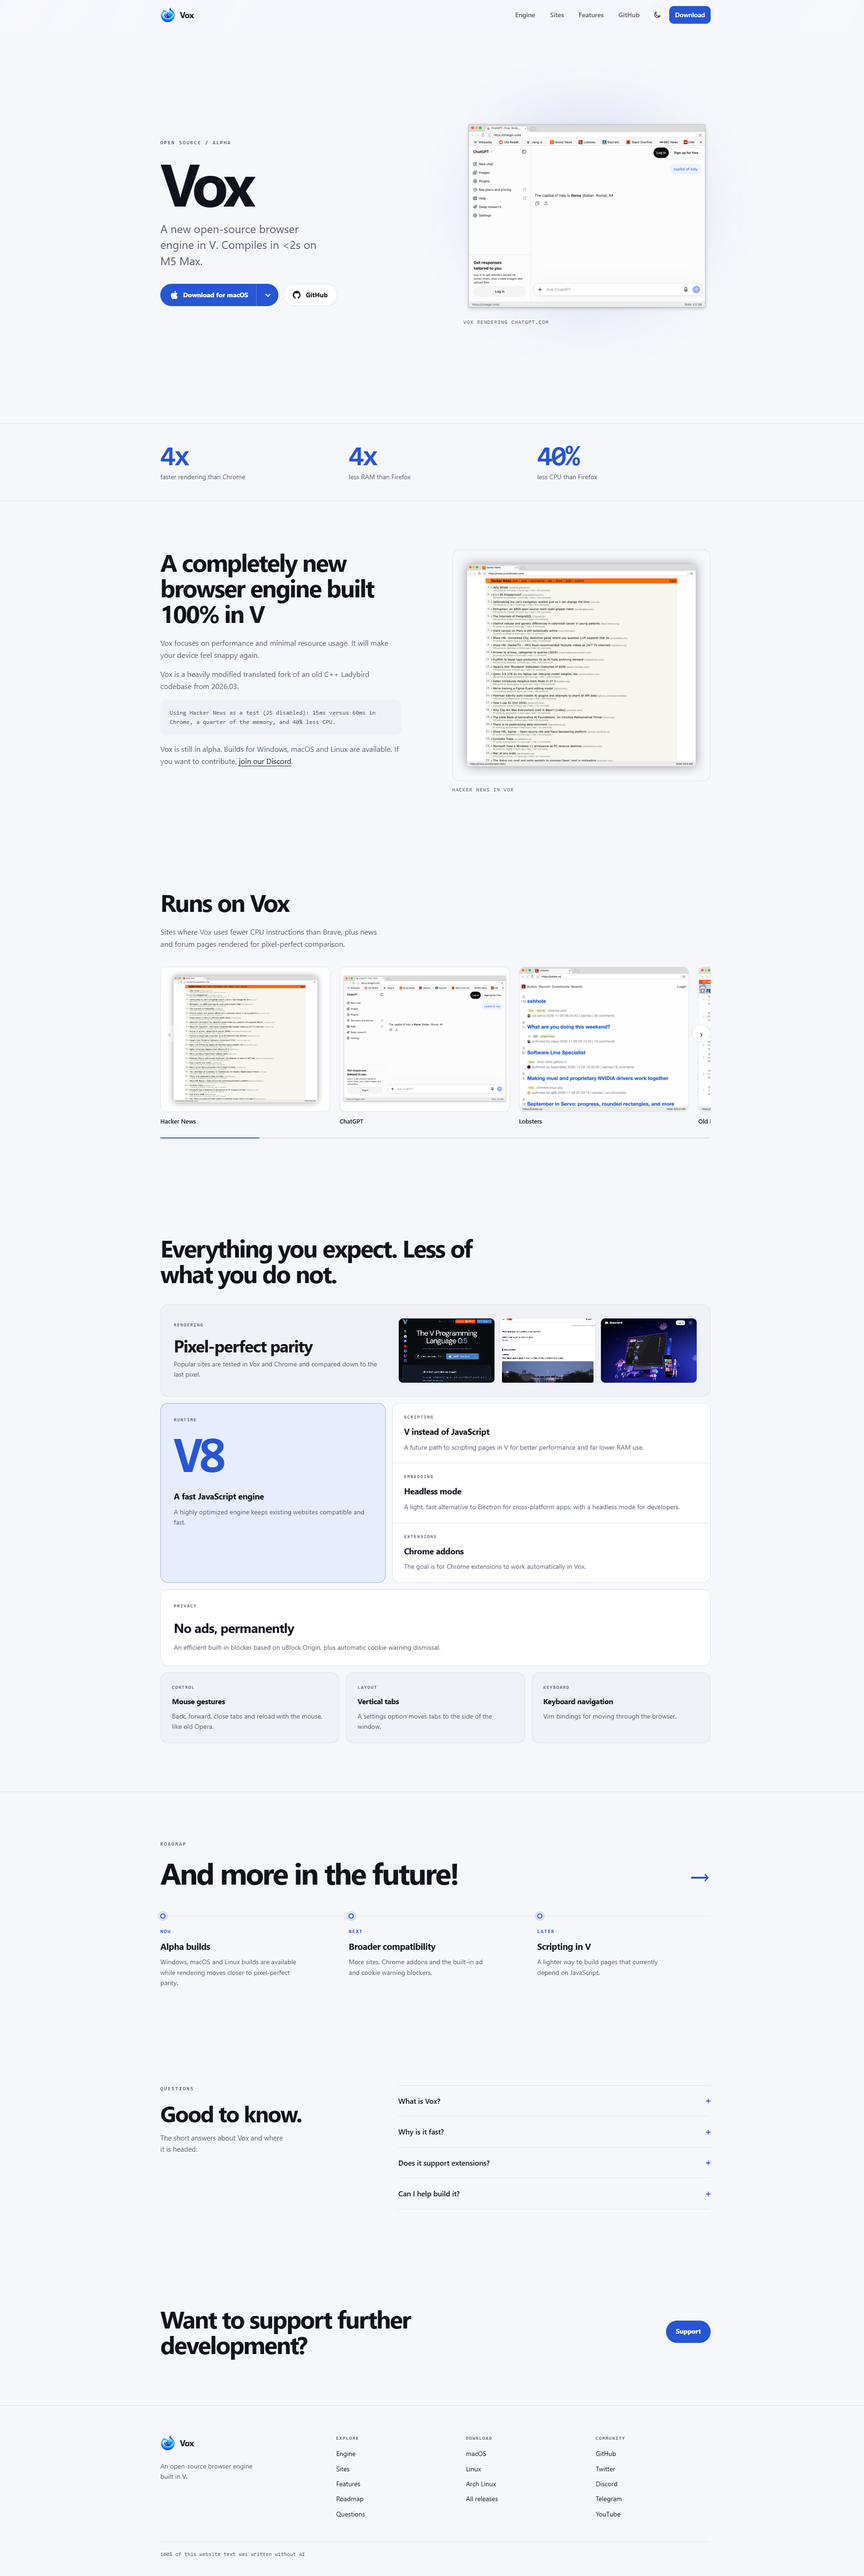
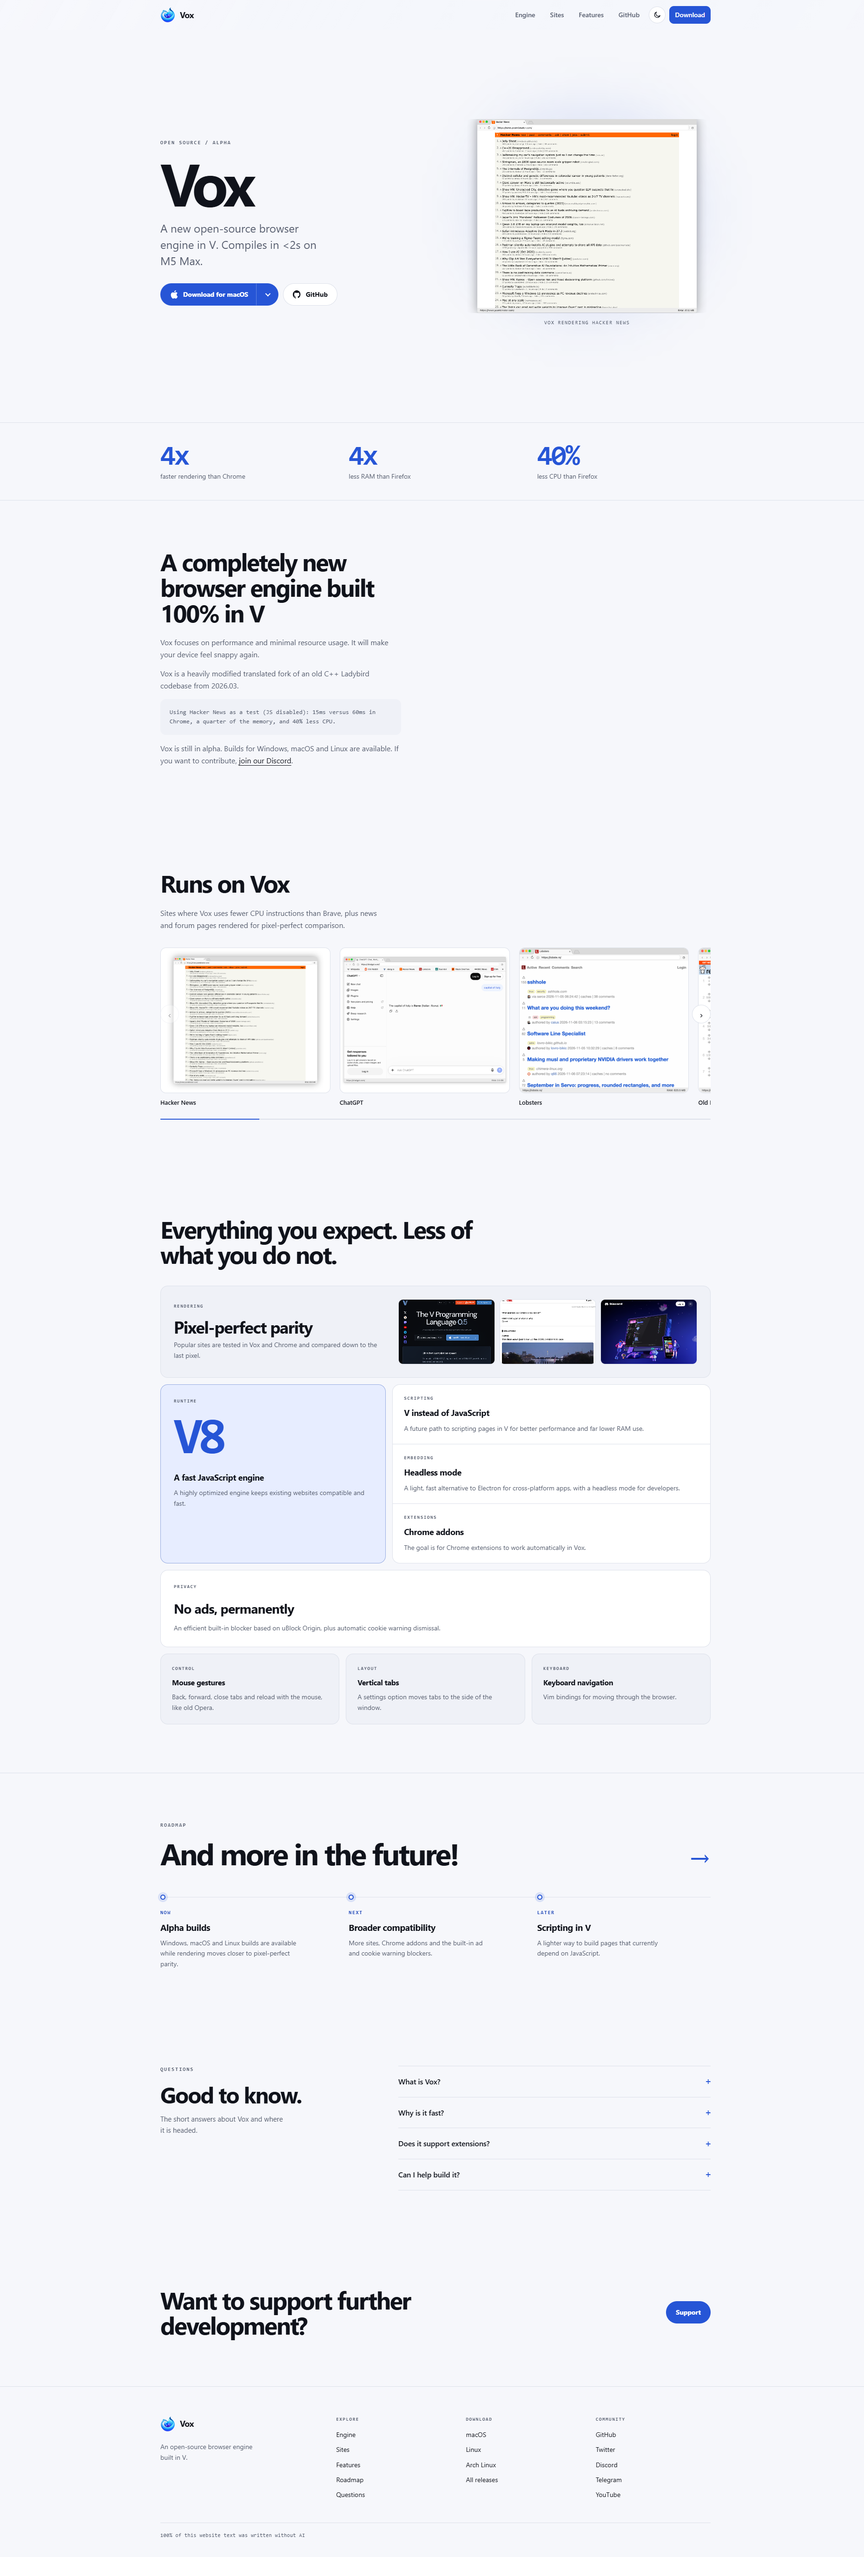
Stack hero screenshots with auto-advance and update preview

diff --git a/index.html b/index.html
@@ -20,7 +20,7 @@
 <link rel="icon" type="image/png" sizes="32x32" href="/assets/favicon-32.png?v=20261107b">
 <link rel="icon" type="image/png" sizes="192x192" href="/assets/favicon-192.png?v=20261107b">
 <link rel="apple-touch-icon" href="/assets/apple-touch-icon.png?v=20261107b">
-<link rel="stylesheet" href="/assets/style.css?v=20261123extrasfix">
+<link rel="stylesheet" href="/assets/style.css?v=20261123stack">
 <script>try{document.documentElement.dataset.theme=localStorage.getItem('vox-theme')||'dark'}catch(e){document.documentElement.dataset.theme='dark'}</script>
 </head>
 <body>
@@ -68,8 +68,12 @@
       </div>
     </div>
     <figure class="hero__visual">
-      <button type="button" class="hero__open" aria-label="Open screenshot gallery"><img src="/assets/hero-chatgpt.png?v=1" width="2078" height="1628" alt="Vox browser displaying ChatGPT" fetchpriority="high"></button>
-      <figcaption>Vox rendering chatgpt.com</figcaption>
+      <div class="hero__stack" aria-roledescription="carousel" aria-label="Vox screenshots">
+        <button type="button" class="hero__slide is-active" aria-label="Open ChatGPT screenshot in gallery"><img src="/assets/hero-chatgpt.png?v=1" width="2078" height="1628" alt="Vox browser displaying ChatGPT" fetchpriority="high"></button>
+        <button type="button" class="hero__slide" aria-label="Open Hacker News screenshot in gallery"><img src="/assets/screen1.png?v=20261104d" width="1252" height="1120" alt="Vox browser displaying Hacker News"></button>
+        <button type="button" class="hero__slide" aria-label="Open Discord screenshot in gallery"><img src="/assets/runs-discord.png?v=1" width="800" height="684" alt="Vox browser displaying Discord"></button>
+      </div>
+      <figcaption class="hero__caption">Vox rendering chatgpt.com</figcaption>
     </figure>
   </div>
 </section>
@@ -91,10 +95,6 @@
       <p class="engine__detail">Using Hacker News as a test (JS disabled): 15ms versus 60ms in Chrome, a quarter of the memory, and 40% less CPU.</p>
       <p>Vox is still in alpha. Builds for Windows, macOS and Linux are available. If you want to contribute, <a href="https://discord.gg/SfDWsF7FNr" rel="noopener noreferrer">join our Discord</a>.</p>
     </div>
-    <figure class="engine__visual">
-      <img src="/assets/screen1.png?v=20261104d" width="1252" height="1120" alt="Vox browser displaying Hacker News" loading="lazy">
-      <figcaption>Hacker News in Vox</figcaption>
-    </figure>
   </div>
 </section>
 
@@ -374,9 +374,14 @@ document.documentElement.classList.add('js');
   var caption = dialog.querySelector('.lightbox__caption');
   var counter = dialog.querySelector('.lightbox__count');
   var figures = Array.prototype.slice.call(document.querySelectorAll('.runs-on-vox__item'));
-  var opener = document.querySelector('.hero__open');
-  var entries = [{ src: opener.querySelector('img').src, label: 'Vox rendering chatgpt.com' }];
+  var slides = Array.prototype.slice.call(document.querySelectorAll('.hero__slide'));
+  var heroCaption = document.querySelector('.hero__caption');
+  var heroLabels = ['Vox rendering chatgpt.com', 'Vox rendering Hacker News', 'Vox rendering Discord'];
+  var entries = slides.map(function (slide, index) {
+    return { src: slide.querySelector('img').src, label: heroLabels[index] || slide.getAttribute('aria-label') };
+  });
   var buttons = [];
+  var extraOpeners = [];
   figures.forEach(function (figure) {
     var img = figure.querySelector('img');
     var label = 'View ' + figure.querySelector('figcaption').textContent + ' screenshot';
@@ -388,6 +393,17 @@ document.documentElement.classList.add('js');
     button.appendChild(img);
     buttons.push(button);
     entries.push({ src: img.src, label: 'Vox rendering ' + figure.querySelector('figcaption').textContent });
+  });
+  Array.prototype.slice.call(document.querySelectorAll('.feature-lead__strip img')).forEach(function (img) {
+    var label = img.alt.replace('Vox browser displaying ', '');
+    var button = document.createElement('button');
+    button.type = 'button';
+    button.className = 'feature-thumb';
+    button.setAttribute('aria-label', 'View ' + label + ' screenshot');
+    img.parentNode.insertBefore(button, img);
+    button.appendChild(img);
+    extraOpeners.push({ button: button, index: entries.length });
+    entries.push({ src: img.src, label: 'Vox rendering ' + label });
   });
   var current = 0;
 
@@ -405,10 +421,35 @@ document.documentElement.classList.add('js');
     else dialog.setAttribute('open', '');
   }
 
-  opener.addEventListener('click', function () { open(0); });
-  buttons.forEach(function (button, index) {
-    button.addEventListener('click', function () { open(index + 1); });
+  var slideIndex = 0;
+  var paused = false;
+  function setSlide(index) {
+    slideIndex = (index + slides.length) % slides.length;
+    slides.forEach(function (slide, i) { slide.classList.toggle('is-active', i === slideIndex); });
+    heroCaption.textContent = entries[slideIndex].label;
+  }
+
+  slides.forEach(function (slide, index) {
+    slide.addEventListener('click', function () { open(index); });
   });
+  buttons.forEach(function (button, index) {
+    button.addEventListener('click', function () { open(index + slides.length); });
+  });
+  extraOpeners.forEach(function (item) {
+    item.button.addEventListener('click', function () { open(item.index); });
+  });
+
+  if (slides.length > 1 && !window.matchMedia('(prefers-reduced-motion: reduce)').matches) {
+    var stack = document.querySelector('.hero__stack');
+    stack.addEventListener('pointerenter', function () { paused = true; });
+    stack.addEventListener('pointerleave', function () { paused = false; });
+    stack.addEventListener('focusin', function () { paused = true; });
+    stack.addEventListener('focusout', function () { paused = false; });
+    setInterval(function () {
+      if (!paused && !dialog.open) setSlide(slideIndex + 1);
+    }, 4200);
+  }
+  setSlide(0);
 
   dialog.querySelector('.lightbox__close').addEventListener('click', function () { dialog.close(); });
   dialog.querySelector('.lightbox__nav--prev').addEventListener('click', function () { show(current - 1); });

diff --git a/assets/style.css b/assets/style.css
@@ -206,8 +206,11 @@ figure, h1, h2, h3, p { margin: 0; }
 
 .hero__visual { margin: 0; position: relative; isolation: isolate; }
 .hero__visual::before { content: ""; position: absolute; inset: -12% -10%; z-index: -1; background: radial-gradient(ellipse at 50% 45%, color-mix(in srgb, var(--accent) 26%, transparent), transparent 68%); filter: blur(46px); }
-.hero__visual img { display: block; width: 100%; height: auto; aspect-ratio: 2078 / 1628; border-radius: var(--radius-card); }
-.hero__visual figcaption { margin-top: 12px; color: var(--muted); font: 500 11px var(--mono); text-transform: uppercase; letter-spacing: 0.12em; }
+.hero__stack { position: relative; aspect-ratio: 2078 / 1628; }
+.hero__slide { position: absolute; inset: 0; display: block; width: 100%; padding: 0; border: 0; background: none; cursor: zoom-in; opacity: 0; transform: scale(0.985); pointer-events: none; transition: opacity 0.6s ease, transform 0.6s ease; }
+.hero__slide.is-active { opacity: 1; transform: none; pointer-events: auto; z-index: 1; }
+.hero__slide img { display: block; width: 100%; height: 100%; object-fit: cover; border-radius: var(--radius-card); }
+.hero__caption { margin-top: 14px; text-align: center; color: var(--muted); font: 500 11px var(--mono); text-transform: uppercase; letter-spacing: 0.12em; }
 
 /* Metrics */
 .metrics { padding: 32px 0; border-block: 1px solid var(--line); }
@@ -229,9 +232,6 @@ figure, h1, h2, h3, p { margin: 0; }
 .engine p { color: var(--muted); margin-bottom: 16px; }
 .engine a { color: var(--text); text-decoration: underline; text-underline-offset: 4px; }
 .engine__detail { padding: 18px 20px; background: var(--surface-2); border-radius: 12px; font-family: var(--mono); font-size: 13px; }
-.engine__visual { margin: 0; }
-.engine__visual img { display: block; width: 100%; height: auto; aspect-ratio: 1252 / 1120; border: 1px solid var(--line); border-radius: var(--radius-card); }
-.engine__visual figcaption { margin-top: 12px; color: var(--muted); font: 500 11px var(--mono); text-transform: uppercase; letter-spacing: 0.12em; }
 
 /* Gallery */
 .section__lede { color: var(--muted); max-width: 56ch; margin-bottom: 32px; }
@@ -267,6 +267,7 @@ figure, h1, h2, h3, p { margin: 0; }
 .feature-lead__copy h3 { font-size: clamp(1.5rem, 4vw, 2.25rem); line-height: 1.1; letter-spacing: -0.04em; max-width: 18ch; }
 .feature-lead__strip { display: grid; grid-template-columns: repeat(3, 1fr); gap: 10px; }
 .feature-lead__strip img { display: block; width: 100%; height: 140px; object-fit: cover; border: 1px solid var(--line); border-radius: 10px; background: var(--surface); }
+.feature-thumb { display: block; width: 100%; padding: 0; border: 0; background: none; cursor: zoom-in; border-radius: 10px; }
 .feature-v8 { padding: 28px; border: 1px solid color-mix(in srgb, var(--accent) 38%, var(--line)); border-radius: var(--radius-card); background: var(--accent-tint); overflow: hidden; }
 .feature-v8__mark { display: block; font: 750 clamp(4rem, 12vw, 7rem) / 0.9 var(--mono); letter-spacing: -0.08em; color: var(--accent); margin-bottom: 24px; }
 .feature-stack { border: 1px solid var(--line); border-radius: var(--radius-card); background: var(--surface); overflow: hidden; }
@@ -511,7 +512,7 @@ figure, h1, h2, h3, p { margin: 0; }
   .hero__grid { grid-template-columns: 1.05fr 0.95fr; gap: 64px; align-items: center; }
   .hero__copy { max-width: none; }
   .hero__lede { max-width: 28ch; }
-  .engine__grid { grid-template-columns: 1fr 1fr; gap: 72px; align-items: start; }
+  .engine__grid { display: block; }
   .runs-on-vox__item { flex-basis: 31%; }
   .metrics { padding: 40px 0; }
 }
